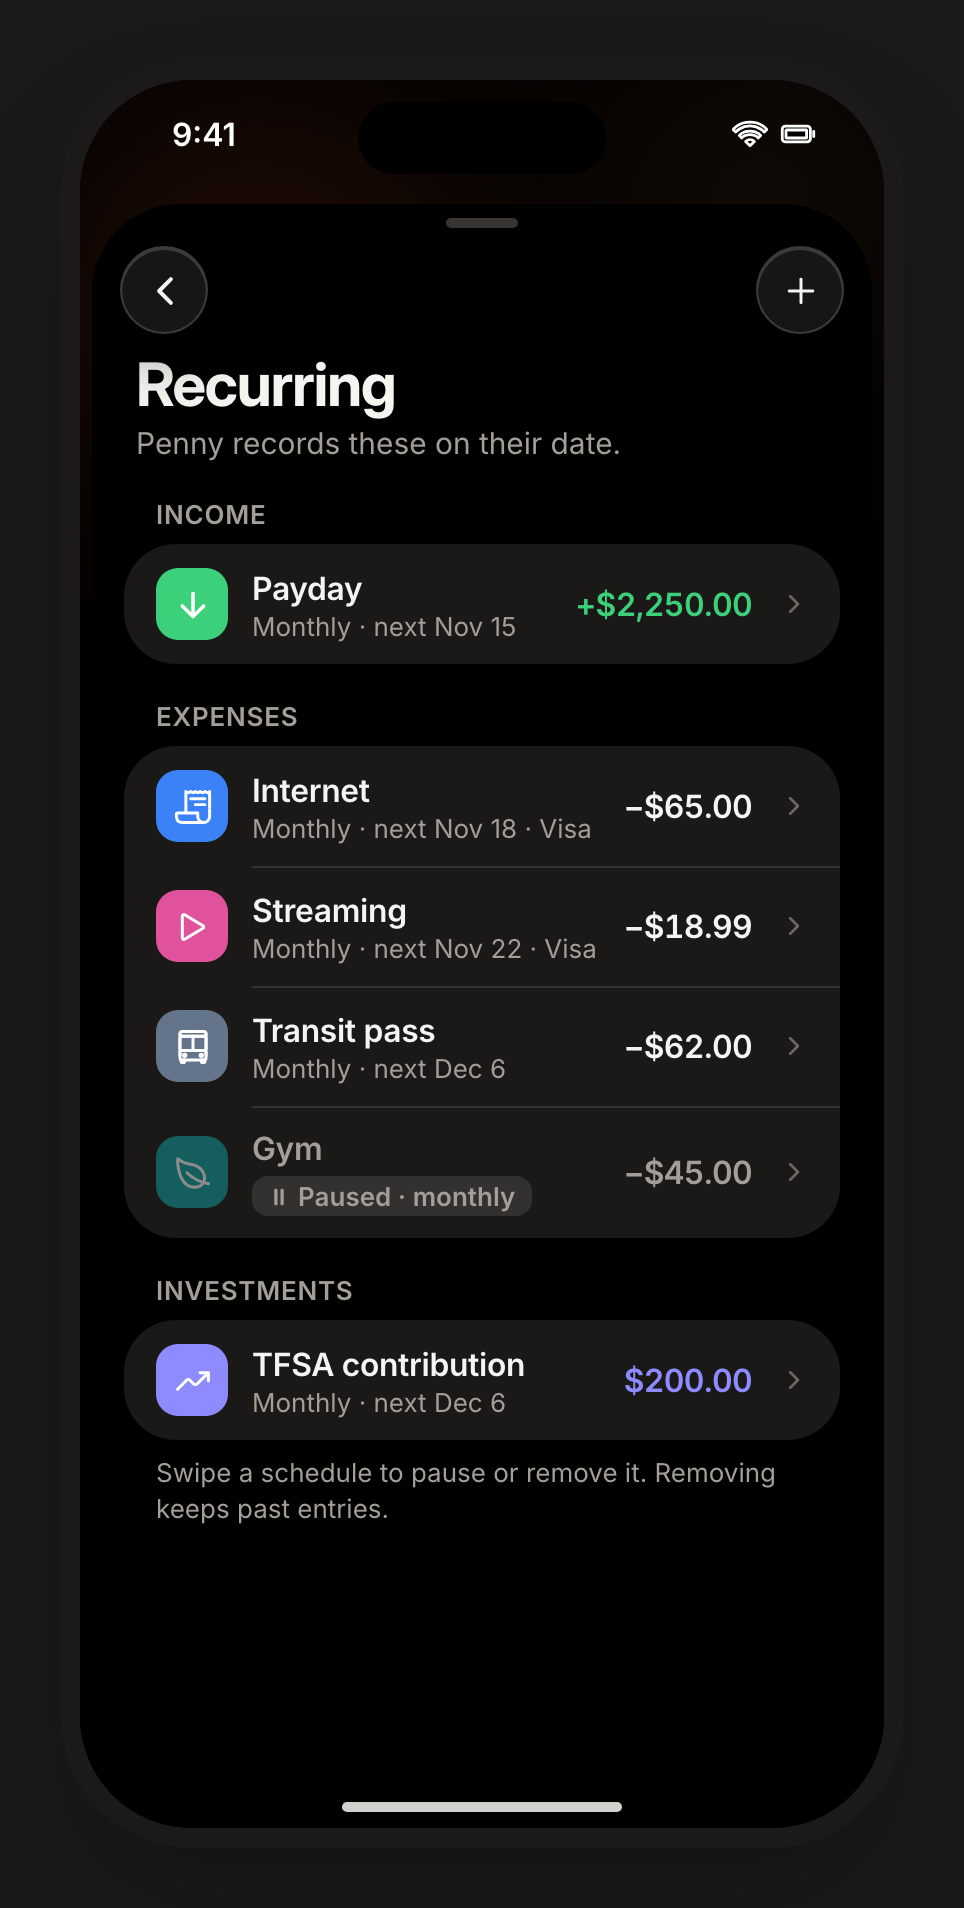
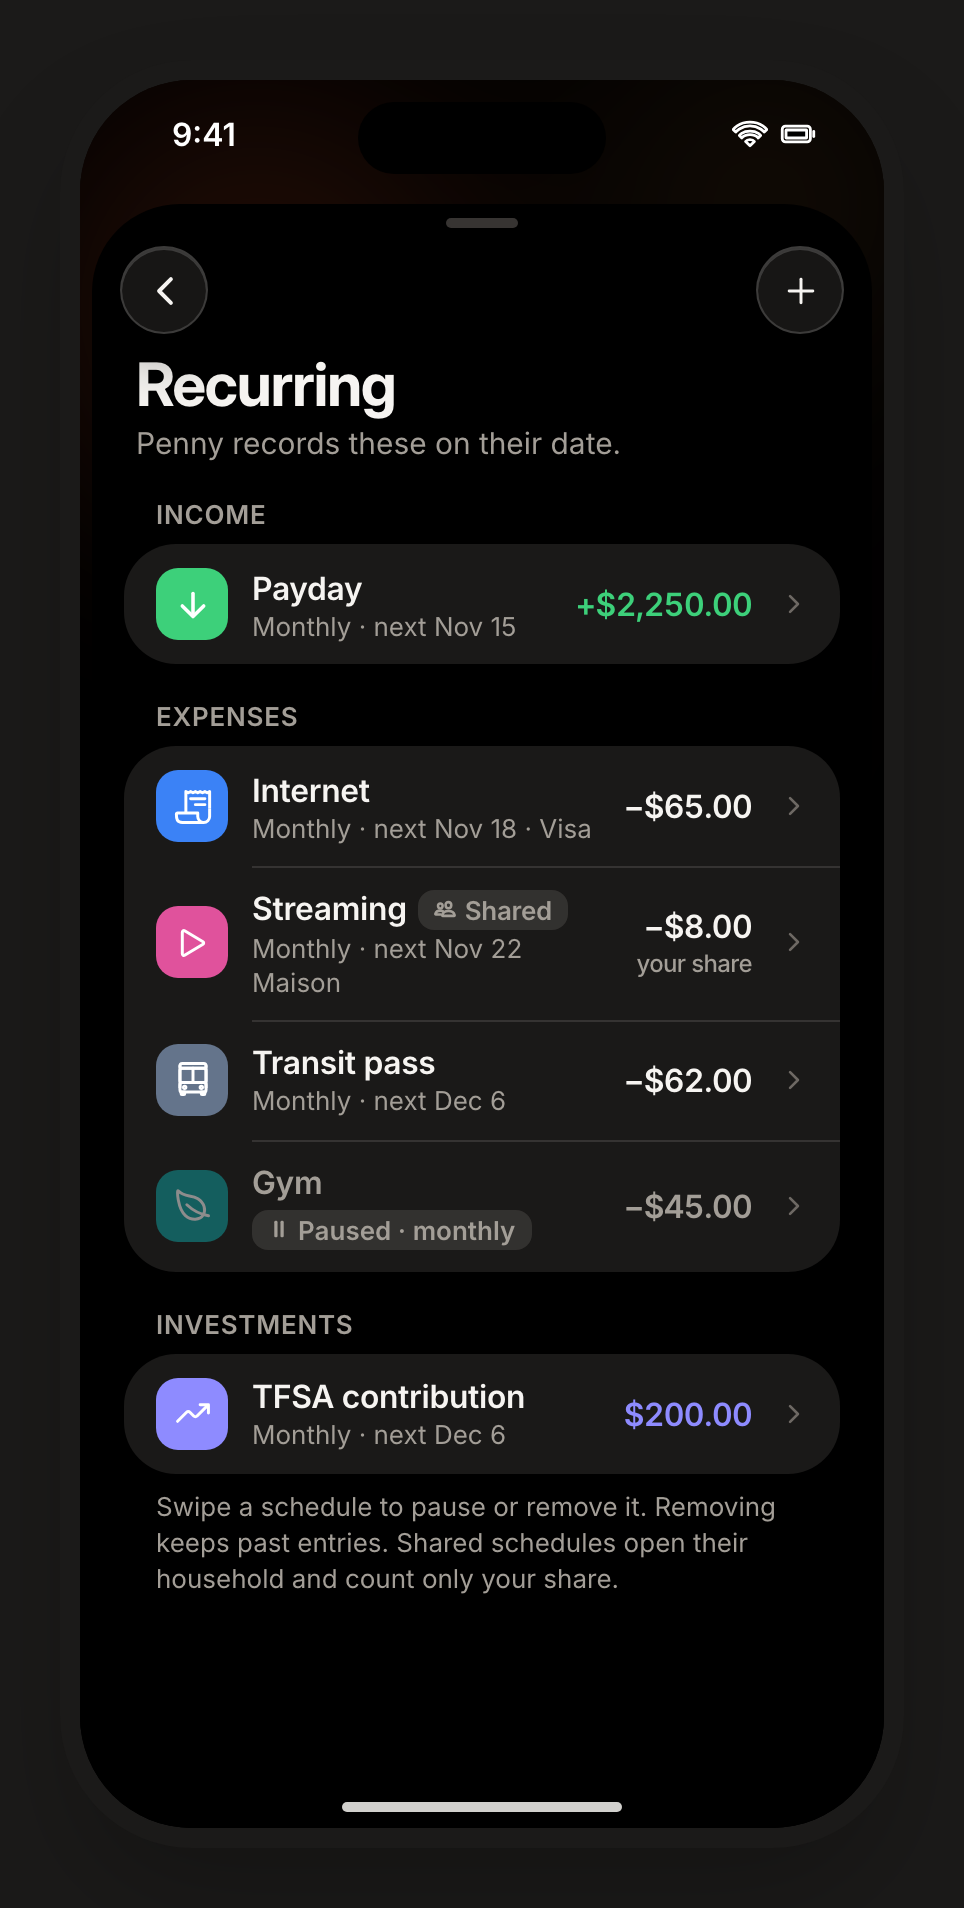
docs(design): show a shared schedule on the iPhone Recurring card (MAZ-219)
The owner decided to change the card to the app's shared row: Streaming
carries a Shared tag beside the title, the household's name on its own
line and "your share" under the amount, and the footer explains shared
schedules. Re-rendered the baselines, updated the contract hashes and
re-captured iphone-recurring on iOS and the web. The native shared-row
deviation is removed; the web row's layout is a MAZ-232 follow-up.

Changed region(s): [[0.1245, 0.4638, 0.8714, 0.8349], [0.4046, 0.4638, 0.6224, 0.5257]]

diff --git a/docs/design/penny-ios/iphone/recurring.html b/docs/design/penny-ios/iphone/recurring.html
@@ -38,6 +38,7 @@
 
   .row .chev { margin-left: 2px; }
   .row .t span.tag { display: inline-flex; margin-top: 4px; }
+  .row .t b .tag { margin: 0 0 0 6px; }
   .gh { padding-top: 18px; }
 </style></head>
 <body class="canvas">
@@ -58,7 +59,7 @@
     <div class="gh"><span>Expenses</span></div>
     <div class="list">
       <div class="row"><div class="ic" style="background:var(--c-home)"><i data-i="receipt"></i></div><div class="t"><b>Internet</b><span>Monthly · next Nov 18 · Visa</span></div><div class="amt num ">−$65.00</div><i data-i="chevron-forward" class="chev"></i></div>
-      <div class="row"><div class="ic" style="background:var(--c-food)"><i data-i="play"></i></div><div class="t"><b>Streaming</b><span>Monthly · next Nov 22 · Visa</span></div><div class="amt num ">−$18.99</div><i data-i="chevron-forward" class="chev"></i></div>
+      <div class="row"><div class="ic" style="background:var(--c-food)"><i data-i="play"></i></div><div class="t"><b>Streaming<span class="tag"><i data-i="people"></i>Shared</span></b><span>Monthly · next Nov 22</span><span>Maison</span></div><div class="amt num">−$8.00<span>your share</span></div><i data-i="chevron-forward" class="chev"></i></div>
       <div class="row"><div class="ic" style="background:var(--c-transport)"><i data-i="bus"></i></div><div class="t"><b>Transit pass</b><span>Monthly · next Dec 6</span></div><div class="amt num ">−$62.00</div><i data-i="chevron-forward" class="chev"></i></div>
       <div class="row"><div class="ic" style="background:var(--c-groceries);opacity:.5"><i data-i="leaf"></i></div><div class="t"><b style="color:var(--label-2)">Gym</b><span class="tag"><i data-i="pause"></i>Paused · monthly</span></div><div class="amt num" style="color:var(--label-2)">−$45.00</div><i data-i="chevron-forward" class="chev"></i></div>
     </div>
@@ -66,7 +67,7 @@
     <div class="list">
       <div class="row"><div class="ic" style="background:var(--invest)"><i data-i="trending-up"></i></div><div class="t"><b>TFSA contribution</b><span>Monthly · next Dec 6</span></div><div class="amt num inv">$200.00</div><i data-i="chevron-forward" class="chev"></i></div>
     </div>
-    <div class="gf">Swipe a schedule to pause or remove it. Removing keeps past entries.</div>
+    <div class="gf">Swipe a schedule to pause or remove it. Removing keeps past entries. Shared schedules open their household and count only your share.</div>
   </div>
   <div class="home-ind"></div>
 </div>

diff --git a/docs/design/visual-acceptance.md b/docs/design/visual-acceptance.md
@@ -108,6 +108,7 @@ Both capture suites passed against a fresh environment: iOS on the iPhone 18 Pro
 - **iOS** follows the cards closely on iPhone. The differences are mostly approved platform adaptations: the Add entry tab, popovers, local-first saving, and emails as names. The follow-ups (MAZ-179 to MAZ-182) cover the missing hero glow, two keyboard overlaps (sign-in, empty search), entry gaps (category grid, shared trips in the picker, the amount separator), shared and trip detail layouts, and iPad (sidebar households and trips, the two-column Add entry, a collapsing portrait detail pane).
 - **The web** shows every card's content, with web forms and dialogs in place of iOS sheets (approved). At phone width it departs further from the iPhone cards. The follow-ups (MAZ-173 to MAZ-178) cover the shell (More instead of the Settings sheet, sidebar households and trips), Home and Insights hierarchy, Activity's layout, shared actions, a stale-payment message that blames the wrong edit, recurring rows that break at 402px, and sign-in, sign-out and feedback copy. MAZ-177 (2026-11-18) re-captured `iphone-recurring`: rows keep the title left and the amount right from 320px, amounts carry the card's signs, and shared schedules are listed with your share. MAZ-174 (2026-11-18) re-captured `iphone-home`, `iphone-home-dark`, `iphone-insights`, `iphone-empty-home`, `iphone-offline`, `ipad-home`, `web-home` and `web-insights`: Home leads with Left to spend and Projected, then Follow your money, then Recent, at every width; the desktop dashboard shows the Sankey and By category above the fold at 1440×900; Insights has the donut and month-over-month sentence on phones and the category table with the last six months on desktop; and the empty month offers Income, Expense and Invest. What remains is listed per card (the sidebar and More are MAZ-173). MAZ-175 (2026-11-18) re-captured `iphone-activity`, `iphone-search-empty`, `iphone-add-income` and `iphone-category-picker`: Activity lists Type and the period, then the day-grouped list with each day's net, before search and the totals at phone width; the empty search state is centered in the results area with Search all time and Clear filters; the Income form explains future-dated income; and the category picker shows Most used and all categories as a grid. MAZ-202 (2026-11-18) signs the recorded rows in Home's Recent and Explore your month and in Activity as the cards do: expenses and shared shares with a minus, income with a plus, investments unsigned; expected and scheduled amounts stay unsigned in amber. MAZ-178 (2026-11-17) re-captured its six cards: the saved toast now matches, sign-out warns about unsynced changes, the offline banner reads Offline, and the remaining sign-in and sign-out differences are approved web adaptations.
 - **MAZ-198 (2026-11-19).** `iphone-recurring` was captured again on the iPhone 18 Pro simulator (iOS 27), light and dark. Shared schedules you're part of (the seeded Streaming) are listed with the expenses, marked Shared with the household's name and "your share", and open their household. A paused expense shows its minus sign. The page now has the card's subtitle, small upper-case section labels and compact Paused tag, and every iOS category icon is the design kit's tile (solid category color, white glyph) instead of a tinted circle. The shared row itself isn't on the card, so it stays a `follow-up` deviation until a design decision.
+- **MAZ-219 (2026-11-20).** The owner decided to change the card: `iphone-recurring` now shows Streaming as a shared schedule, as the app draws it (the Shared tag beside the title, "Monthly · next Nov 22" with the household's name on its own line, −$8.00 with "your share" under it), and the footer adds "Shared schedules open their household and count only your share." Both appearances were captured again on the iPhone 18 Pro simulator (iOS 27) and at 402×874 on the web. The native shared row now matches the card, so its deviation is gone; the subtitle spacing (MAZ-236) and copper toolbar glyphs (MAZ-244) remain. On the web the Shared badge sits under the amount, the household's name stays on the timing line and the icon is a gray people glyph (MAZ-232).
 - **MAZ-180 (2026-11-18).** The nine cards it covered were captured again on the iPhone 18 Pro simulator (iOS 27): the hero glow on Home, empty Home, offline and create account, the Home calendar button, the category picker's Most used grid, shared trips in More details, the grouped draft amount and the Appearance previews. `iphone-create-account`, `iphone-category-picker`, `iphone-add-income` and `iphone-appearance` now match (with MAZ-179's, 15 matches and 34 deviations on iOS); the others keep only approved deviations. The light-mode contrast on the glow is fixed with them (MAZ-183, below).
 - **MAZ-181 (2026-11-19).** The nine shared and trip cards were captured again on the iPhone 18 Pro and iPad Pro 11-inch (M5) simulators (iOS 27). The household leads with members, its name and the meaning-colored balance, with the month in the section headers; People has the invite card; the shared expense form shows Paid by and the split above the keypad; Payment changed names its cause and strikes through only what changed; New household has its header and a pinned Create household; the Trips list shows Your share so far; and a shared trip leads with the trip total and your share, with Your share by category on iPad. `iphone-household-create` and `iphone-trips` now match; the others keep only approved deviations, and the iPad layouts remain MAZ-182. The seeded Lisbon trip has no shared expenses yet, so its totals read $0.00 and the iPad category section is empty.
 - **Emailed receipts (MAZ-184).** The 21 receipt cards (`iphone-receipt-*`, `ipad-receipt-*`, `web-receipt-*`) were added after this review. Their states are `blockedBy` in `redesign-states.json`: the full-stack seed has no receipt address or inbox items yet, so neither capture suite can open them, and their verdicts are recorded as `blocked` (`not-applicable` for the `web-*` cards on iOS). The counts above cover the 61 cards reviewed on 2026-11-12.

diff --git a/docs/reference/redesign.md b/docs/reference/redesign.md
@@ -94,7 +94,7 @@ The web builds `iphone-recurring` and `iphone-schedule-detail` from the MAZ-85 c
 - **No swipe actions.** A row opens the schedule detail (a dialog, not a new URL); Pause/Resume and Remove are buttons there, and removal has its own confirmation. The page footer says what editing and removing do instead of "Swipe a schedule".
 - **New schedule** is a button on the page and a dialog with the whole form; the cards have no web form, so it follows the entry form's fields with a live line for the next dates and catch-up.
 - Rows add **Waiting to sync** while the change is only on this device, and the detail adds the number of recorded entries.
-- **Shared schedules (MAZ-177).** The card lists Streaming among the expenses like a personal schedule. The web lists every shared schedule you're part of there, marked with a **Shared** badge, the household's name in place of the account, and your share of the next occurrence labelled "your share", so a shared total is never read as yours. A shared row opens its household, where it's edited, and the page footer says so.
+- **Shared schedules (MAZ-177).** The web lists every shared schedule you're part of among the expenses, marked with a **Shared** badge, the household's name in place of the account, and your share of the next occurrence labelled "your share", so a shared total is never read as yours. A shared row opens its household, where it's edited, and the page footer says so. Since MAZ-219 the card shows a shared Streaming row too (the Shared tag beside the title, the household's name on its own line); the web row's badge placement and icon are a follow-up (MAZ-232).
 
 ## Web shared-household notes (MAZ-91)
 

diff --git a/.design-sync/NOTES.md b/.design-sync/NOTES.md
@@ -20,6 +20,7 @@
 ## Pending sync
 - **Hero glow contrast (MAZ-183, decided in MAZ-180):** the light `--label-2` is now #57524D (was #6F6A64) in `penny.css` and `design-kit/src/styles.css`; the `empty-home` card's "$0" and the `ipad/trip` card's phase use `--label-2`. Push the kit and those two cards to the Claude Design project at the next re-sync.
 - **Emailed receipts (MAZ-184):** the 21 `receipt-*` cards in `docs/design/penny-ios/{iphone,ipad,web}` were added without a kit change (they reuse `penny.css`, `ipad.css`, `web.css` and existing icons) and are not yet in the Claude Design project. Import them at the next re-sync. The web cards add the sidebar's "Receipts to attach" item in their own script, so `assets/web.js` and the other web cards are unchanged.
+- **Shared schedule on Recurring (MAZ-219):** `iphone/recurring.html` shows Streaming as a shared schedule (Shared tag beside the title, the household's name on its own line, "your share" under the amount) and its footer adds a sentence about shared schedules. No kit change. Push the card at the next re-sync.
 
 ## Re-sync risks
 - **Do the whole re-sync in one change:** after a card or kit change, re-render the baselines (`node docs/design/penny-ios/render.mjs 2`), update the hashes in `contracts/design-baseline.json`, re-sync this project, and update the affected verdicts in `contracts/visual-comparisons.json`. The steps are in [visual acceptance](../docs/design/visual-acceptance.md#re-sync-after-a-design-change); `npm run test:core` and the web workflow fail on a stale baseline or hash.
